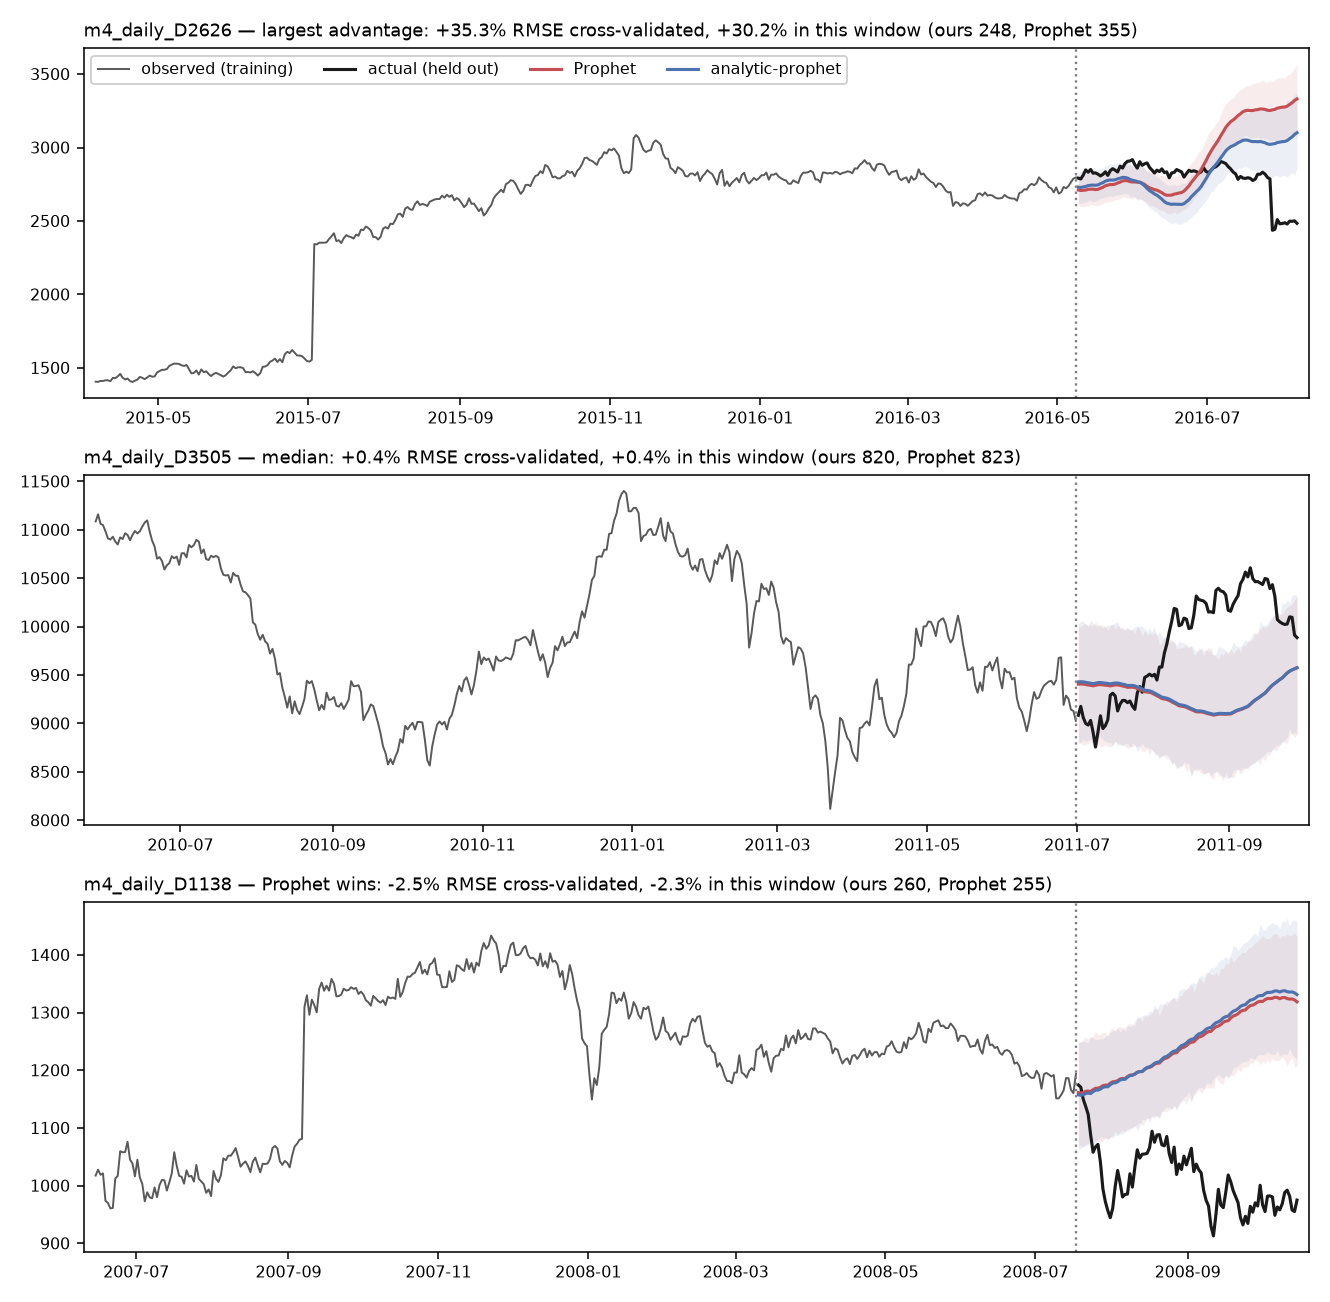
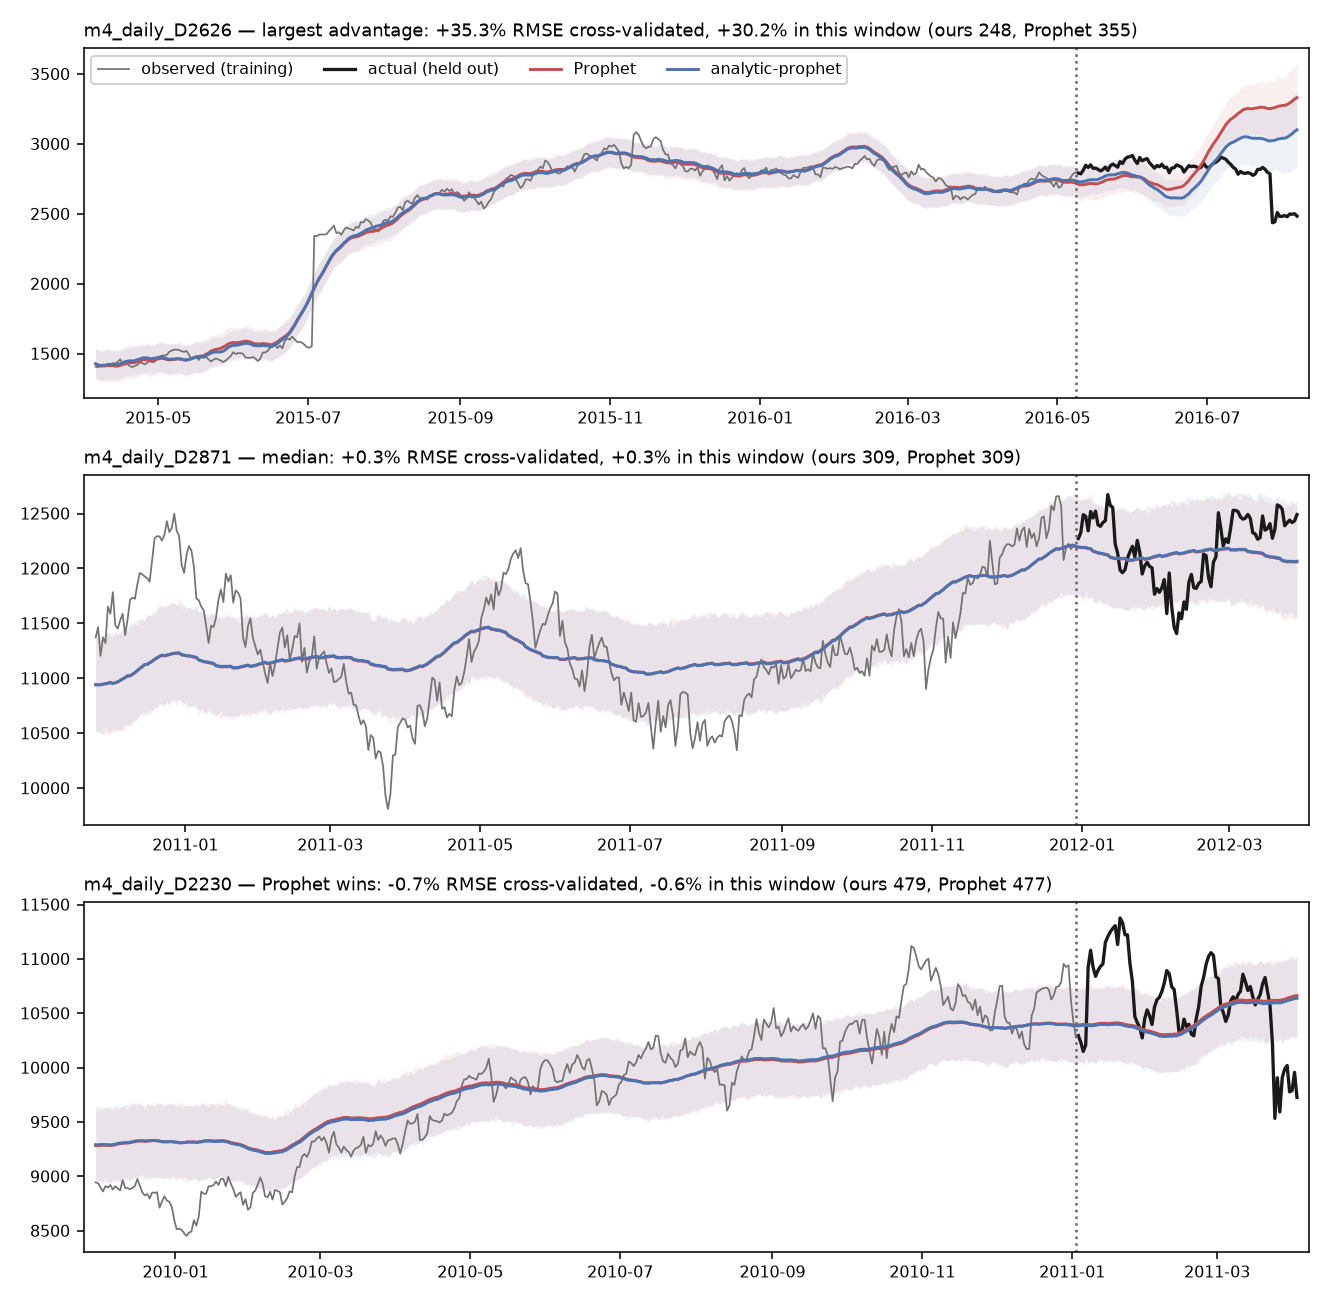
Fix the step at the cutoff, and draw series the model actually fits
Both from review of #112.

**The step at the cutoff was the model's residual, drawn as though it were a
plotting artefact.** Each forecast line started at the first point past the
cutoff, whose fitted value is not the last observation -- on one series the
gap was +401 on a series around 9000. Nothing was wrong with the numbers; the
figure just showed no line between the fit and the forecast, so the eye read
a jump.

Both implementations now predict across the whole drawn span, so each line is
continuous: to the left of the cutoff the model's fit to data it was shown,
to the right its forecast. That removes the step by showing what it was, and
it makes the panels say more than before -- the distance between a coloured
line and the grey one is the fit, which was previously invisible. The RMSEs
are still computed on the horizon alone; scoring a model on its own training
data would be a different and much kinder number.

**The second and third series were chosen without regard to whether the model
fits them at all.** The ranking was over all 36, so the median and
Prophet-wins panels landed on series where both implementations forecast
poorly -- which illustrates the difficulty of the series, not the difference
between two optimizers, and makes a showcase that showcases nothing.

The ranking is now taken over the 11 series where both implementations are
within 10% sMAPE held out, which is stated in the caption with the threshold.
The panels become:
[…]

diff --git a/evaluation/showcase.py b/evaluation/showcase.py
@@ -41,9 +41,17 @@ from tiers import tier2
 
 FIGURE = harness.RESULTS / "figures" / "showcase.png"
 
+# A Prophet-shaped model does not fit every M4 series, and a panel where both
+# implementations miss badly shows the difficulty of the series rather than
+# the difference between two optimizers. So the ranking is taken over the
+# series where the model works at all: both implementations within this sMAPE
+# held out. 0.10 keeps 11 of the 36 and is stated in the caption, because a
+# threshold nobody can see is a thumb on the scale.
+FITS_AT_ALL = 0.10
+
 # Panels, in the order they are drawn, each with the rule that picks it.
 SELECTIONS = (
-    ("largest advantage", "the series of the 36 where our cross-validated RMSE "
+    ("largest advantage", "of those, the series where our cross-validated RMSE "
                           "beats Prophet's by the most"),
     ("median", "the series at the median of that same ranking"),
     ("Prophet wins", "the series where Prophet beats us by the most"),
@@ -59,14 +67,24 @@ def _advantages(results=None):
     """
     path = Path(results or harness.RESULTS / "tier2_accuracy.csv")
     frame = pd.read_csv(path)
-    rmse = frame[frame["metric"] == "rmse"]
+
+    def paired(metric):
+        wanted = frame[frame["metric"] == metric]
+        return {series: dict(zip(group["implementation"], group["value"]))
+                for series, group in wanted.groupby("series")}
+
+    rmse, smape = paired("rmse"), paired("smape")
 
     rows = []
-    for series, group in rmse.groupby("series"):
-        by_implementation = dict(zip(group["implementation"], group["value"]))
-        ours = by_implementation.get("analytic_prophet")
-        theirs = by_implementation.get("prophet")
+    for series, values in rmse.items():
+        ours, theirs = values.get("analytic_prophet"), values.get("prophet")
+        fit = smape.get(series, {})
         if ours is None or theirs is None or not theirs:
+            continue
+        if not {"analytic_prophet", "prophet"} <= set(fit):
+            continue
+        # the filter: the worse of the two has to be a usable forecast
+        if max(fit["analytic_prophet"], fit["prophet"]) > FITS_AT_ALL:
             continue
         rows.append(((theirs - ours) / theirs, series, ours, theirs))
     rows.sort(reverse=True)
@@ -102,8 +120,26 @@ def _load(series):
     raise SystemExit(f"{series} is not in the M4 sample; is the corpus cached?")
 
 
-def _one_window(frame, cutoff, horizon, lib_path):
-    """Fit both implementations on the history up to `cutoff` and forecast."""
+def _one_window(frame, cutoff, horizon, lib_path, tail):
+    """Fit both implementations on the history up to `cutoff`, then predict
+    across the whole drawn span -- the tail of the training data as well as
+    the horizon past it.
+
+    **Predicting back over the training tail is what removes the step at the
+    cutoff.** Drawing only the forecast starts each line at the first future
+    point, whose fitted value is not the last observation: at one of the
+    series in the first version of this figure the gap was +401 on a series
+    around 9000, which reads as a glitch in the plot and is not one. It is the
+    model's residual at the end of its own training data.
+
+    Carrying the fitted curve through the cutoff shows it for what it is. Each
+    line is then continuous, the distance between a fitted line and the
+    observed one is the fit, and the vertical rule marks where the model stops
+    having been shown the answer.
+
+    The RMSEs are still computed on the horizon alone. Scoring a model on the
+    data it was fitted to would be a different and much kinder number.
+    """
     from prophet import Prophet
 
     from analytic_prophet import AnalyticProphet
@@ -114,10 +150,14 @@ def _one_window(frame, cutoff, horizon, lib_path):
     if len(history) < 2 or future.empty:
         return None
 
+    shown_history = history if tail is None else history.tail(tail)
+    drawn = pd.concat([shown_history[["ds"]], future[["ds"]]], ignore_index=True)
+    n_fitted = len(shown_history)
+
     ours = AnalyticProphet(**harness.PROPHET_KWARGS)
     ours.rng = np.random.default_rng(harness.SEED)
     ours.fit(history, lib_path=lib_path)
-    our_forecast = ours.predict(future[["ds"]])
+    our_curve = ours.predict(drawn)
 
     with warnings.catch_warnings():
         warnings.simplefilter("ignore")
@@ -125,22 +165,23 @@ def _one_window(frame, cutoff, horizon, lib_path):
         # figure would differ between runs without this. [fc] tier2.
         np.random.seed(harness.SEED % (2 ** 32))
         theirs = Prophet(**harness.PROPHET_KWARGS).fit(history)
-        their_forecast = theirs.predict(future[["ds"]])
+        their_curve = theirs.predict(drawn)
 
     truth = future["y"].to_numpy()
 
-    def rmse(predicted):
-        return float(np.sqrt(np.mean((truth - predicted) ** 2)))
+    def rmse(curve):
+        return float(np.sqrt(np.mean(
+            (truth - curve["yhat"].to_numpy()[n_fitted:]) ** 2)))
 
     return {
-        "history": history, "cutoff": cutoff, "future": future,
-        "ours": our_forecast, "theirs": their_forecast,
-        "our_rmse": rmse(our_forecast["yhat"].to_numpy()),
-        "their_rmse": rmse(their_forecast["yhat"].to_numpy()),
+        "history": history, "shown_history": shown_history,
+        "cutoff": cutoff, "future": future,
+        "ours": our_curve, "theirs": their_curve, "n_fitted": n_fitted,
+        "our_rmse": rmse(our_curve), "their_rmse": rmse(their_curve),
     }
 
 
-def panel_data(series, cross_validated_advantage, lib_path):
+def panel_data(series, cross_validated_advantage, lib_path, tail=None):
     """What one panel draws: history, the cutoff, the truth, both forecasts.
 
     **Which window.** A series is selected by its cross-validated RMSE, which
@@ -167,7 +208,7 @@ def panel_data(series, cross_validated_advantage, lib_path):
 
     cutoffs = generate_cutoffs(frame, horizon, pd.Timedelta(initial_text),
                                pd.Timedelta(period_text))
-    windows = [w for w in (_one_window(frame, cutoff, horizon, lib_path)
+    windows = [w for w in (_one_window(frame, cutoff, horizon, lib_path, tail)
                            for cutoff in cutoffs) if w is not None]
     if not windows:
         raise SystemExit(f"{series}: no usable cutoff")
@@ -199,24 +240,27 @@ def draw(panels, out_path=FIGURE, tail=None):
     axes = np.atleast_1d(axes)
 
     for axis, ((label, _rule, advantage, series, _o, _t), data) in zip(axes, panels):
-        history, future = data["history"], data["future"]
-        shown = history if tail is None else history.tail(tail)
+        shown, future = data["shown_history"], data["future"]
 
-        axis.plot(shown["ds"], shown["y"], color="0.35", linewidth=1.0,
+        axis.plot(shown["ds"], shown["y"], color="0.45", linewidth=0.9,
                   label="observed (training)")
-        axis.plot(future["ds"], future["y"], color="0.1", linewidth=1.6,
+        axis.plot(future["ds"], future["y"], color="0.1", linewidth=1.7,
                   label="actual (held out)")
 
-        for forecast, colour, name in (
+        # One continuous line per model across the whole drawn span: fitted
+        # to the left of the cutoff, forecast to the right. Drawing only the
+        # right-hand part leaves a step at the cutoff that looks like a
+        # plotting bug and is really the model's residual (#100 review).
+        for curve, colour, name in (
                 (data["theirs"], theirs_colour, "Prophet"),
                 (data["ours"], ours_colour, "analytic-prophet")):
-            axis.fill_between(future["ds"], forecast["yhat_lower"],
-                              forecast["yhat_upper"], color=colour, alpha=0.10,
+            axis.fill_between(curve["ds"], curve["yhat_lower"],
+                              curve["yhat_upper"], color=colour, alpha=0.09,
                               linewidth=0)
-            axis.plot(future["ds"], forecast["yhat"], color=colour,
-                      linewidth=1.6, label=name)
+            axis.plot(curve["ds"], curve["yhat"], color=colour,
+                      linewidth=1.5, label=name)
 
-        axis.axvline(data["cutoff"], color="0.5", linestyle=":", linewidth=1.2)
+        axis.axvline(data["cutoff"], color="0.4", linestyle=":", linewidth=1.3)
         axis.set_title(
             f"{series} — {label}: {advantage:+.1%} RMSE cross-validated, "
             f"{data['advantage']:+.1%} in this window "
@@ -255,7 +299,7 @@ def main(argv=None):
     for label, rule, advantage, series, ours, theirs in chosen:
         print(f"  {label}: {series} ({advantage:+.1%})")
         panels.append(((label, rule, advantage, series, ours, theirs),
-                       panel_data(series, advantage, lib_path)))
+                       panel_data(series, advantage, lib_path, tail=args.tail)))
 
     written = draw(panels, Path(args.out), tail=args.tail)
     print(f"wrote {written}")

diff --git a/tests/test_showcase_figure.py b/tests/test_showcase_figure.py
@@ -35,21 +35,49 @@ def readme():
     return README.read_text()
 
 
-@pytest.fixture(scope="module")
-def advantages():
-    """Relative RMSE advantage per series, from the committed Tier 2 results."""
-    rows = list(csv.DictReader(open(TIER2)))
+def _paired(rows, metric):
     by_series = {}
     for row in rows:
-        if row["metric"] == "rmse":
+        if row["metric"] == metric:
             by_series.setdefault(row["series"], {})[row["implementation"]] = \
                 float(row["value"])
+    return by_series
+
+
+@pytest.fixture(scope="module")
+def advantages():
+    """Relative RMSE advantage per series, from the committed Tier 2 results.
+
+    Every scored series, unfiltered -- this is what the caption's "across all
+    36 series" is about.
+    """
+    rows = list(csv.DictReader(open(TIER2)))
     out = {}
-    for series, values in by_series.items():
+    for series, values in _paired(rows, "rmse").items():
         ours, theirs = values.get("analytic_prophet"), values.get("prophet")
         if ours is not None and theirs:
             out[series] = (theirs - ours) / theirs
     return out
+
+
+@pytest.fixture(scope="module")
+def fitted_advantages(advantages):
+    """The same, restricted to the series a Prophet-shaped model fits at all.
+
+    The panels are selected from these, so the test re-derives the filter
+    rather than trusting the script to have applied it.
+    """
+    from showcase import FITS_AT_ALL
+
+    rows = list(csv.DictReader(open(TIER2)))
+    smape = _paired(rows, "smape")
+    keep = {}
+    for series, advantage in advantages.items():
+        fit = smape.get(series, {})
+        if {"analytic_prophet", "prophet"} <= set(fit) and \
+                max(fit.values()) <= FITS_AT_ALL:
+            keep[series] = advantage
+    return keep
 
 
 def test_the_figure_exists_and_the_readme_shows_it(readme):
@@ -73,6 +101,8 @@ def test_the_caption_states_the_selection_rule(readme):
     for rule in ("beats Prophet's by the most", "median", "Prophet beats us by the most"):
         assert rule in caption, f"the caption does not name the {rule!r} panel"
     assert "held out" in caption or "neither model saw" in caption
+    # the filter is part of the rule, so it has to be stated too
+    assert "sMAPE" in caption, "the caption does not say the ranking was filtered"
 
 
 def test_the_caption_reports_the_median_advantage_correctly(readme, advantages):
@@ -94,8 +124,9 @@ def test_the_caption_reports_coverage_as_the_report_does(readme):
     """The intervals are drawn, so the caption carries the under-coverage --
     and carries the canonical report's numbers rather than an older run's."""
     report = (REPO / "evaluation" / "results" / "report.md").read_text()
+    # one line: markdown wraps, and this phrase straddles a newline
     quoted = re.findall(r"coverage \*\*([\d.]+)\*\* for ours and \*\*([\d.]+)\*\*",
-                        readme)
+                        " ".join(readme.split()))
     assert quoted, "the caption no longer quotes coverage, though the figure draws bands"
 
     for ours, theirs in quoted:
@@ -104,21 +135,43 @@ def test_the_caption_reports_coverage_as_the_report_does(readme):
             f"generated report says")
 
 
-def test_the_three_panels_are_what_the_rule_selects(advantages):
+def test_the_three_panels_are_what_the_rule_selects(fitted_advantages):
     """The script picks by rule from the committed results; this is that rule,
     written again, so a change to either has to be deliberate."""
     from showcase import select
 
     chosen = [series for _label, _rule, _advantage, series, _o, _t in select()]
-    ranked = sorted(advantages, key=advantages.get, reverse=True)
+    ranked = sorted(fitted_advantages, key=fitted_advantages.get, reverse=True)
 
     assert chosen[0] == ranked[0], "panel 1 is not the largest advantage"
     assert chosen[1] == ranked[len(ranked) // 2], "panel 2 is not the median"
     assert chosen[2] == ranked[-1], "panel 3 is not the one Prophet wins by most"
 
 
-def test_the_selection_spans_a_real_range(advantages):
+def test_the_panels_are_series_the_model_actually_fits(fitted_advantages):
+    """The point of the filter. A panel where both implementations miss badly
+    shows the difficulty of the series, not the difference between two
+    optimizers -- which is what the first version of this figure did."""
+    from showcase import FITS_AT_ALL, select
+
+    rows = list(csv.DictReader(open(TIER2)))
+    smape = _paired(rows, "smape")
+    for _label, _rule, _advantage, series, _o, _t in select():
+        for implementation, value in smape[series].items():
+            assert value <= FITS_AT_ALL, (
+                f"{series} is drawn but {implementation} scores {value:.1%} "
+                f"sMAPE on it, above the {FITS_AT_ALL:.0%} the caption claims")
+
+
+def test_the_caption_states_the_size_of_the_filtered_set(readme, fitted_advantages):
+    quoted = re.search(r"\*\*(\d+) where a Prophet-shaped model fits", readme)
+    assert quoted, "the caption no longer says how many series the ranking covers"
+    assert int(quoted.group(1)) == len(fitted_advantages)
+
+
+def test_the_selection_spans_a_real_range(fitted_advantages):
     """If the best and worst series ever converge, three panels stop saying
     anything and the figure should be rethought rather than redrawn."""
-    assert max(advantages.values()) > 0.05, "no series shows a visible advantage"
-    assert min(advantages.values()) < 0, "no series where Prophet wins; panel 3 is a lie"
+    assert max(fitted_advantages.values()) > 0.05, "no series shows a visible advantage"
+    assert min(fitted_advantages.values()) < 0, (
+        "no series where Prophet wins; panel 3 is a lie")

diff --git a/README.md b/README.md
@@ -16,28 +16,31 @@ is no MCMC and no plotting, so this is not yet a drop-in replacement. See
 
 ![three held-out forecasts: the largest advantage, the median, and one Prophet wins](evaluation/results/figures/showcase.png)
 
-**What this shows, and what it does not.** Three M4 series, forecast past a cutoff neither
-model saw, with the actual values drawn over the horizon. They are **chosen by rule, not
-by eye**: of the 36 series in [Tier 2](evaluation/results/report.md#tier-2--is-it-more-accurate-held-out),
-these are the one where our cross-validated RMSE beats Prophet's by the most, the one at
-the median of that ranking, and the one where Prophet beats us by the most. For each, the
-window drawn is the cutoff whose advantage is closest to that series' cross-validated
-figure, so the picture and the percentage describe the same thing.
+**What this shows, and what it does not.** Three M4 series, forecast past a cutoff
+neither model saw. Each coloured line is continuous through the cutoff: to its left the
+model's fit to data it was shown, to its right its forecast. The actual values over the
+horizon are drawn in black, and the bands are the nominal 80% intervals.
+
+They are **chosen by rule, not by eye.** Of Tier 2's 36 series, the ranking is taken over
+the **11 where a Prophet-shaped model fits at all** — both implementations within 10%
+sMAPE held out — because a panel where both miss badly shows the difficulty of the series
+rather than the difference between two optimizers. Within those: the series where our
+cross-validated RMSE beats Prophet's by the most, the one at the median of that ranking,
+and the one where Prophet beats us by the most.
 
 **The top panel is the mechanism; the bottom two are the typical case.** Prophet's
 optimizer stops short on the non-differentiable objective, and that costs most where the
 trend is doing the work — a regime change, as in the top panel, where the L1 kink is
-load-bearing. Elsewhere both implementations fit almost the same model and the curves sit
-on top of each other. Across all 36 series the median RMSE advantage is **0.45%**, and
+load-bearing. Elsewhere both implementations fit nearly the same model and the two lines
+sit on top of each other. Across all 36 series the median RMSE advantage is **0.45%**, and
 past two years of history predictions differ by **0.17–0.59%** of the series scale. A
 reader who runs this on their own data should expect the bottom two panels, not the top
 one.
 
-The shaded bands are the nominal 80% intervals. **Neither implementation's are well
-calibrated**: on this corpus they contain about a third of the held-out points they claim
-four fifths of — mean coverage **0.356** for ours and **0.341** for Prophet's. That is a
-property of the model on long horizons, it is shared, and it is larger than anything
-separating the two.
+**Neither implementation's intervals are well calibrated.** On this corpus they contain
+about a third of the held-out points they claim four fifths of — mean coverage **0.356**
+for ours and **0.341** for Prophet's. That is a property of the model on long horizons, it
+is shared, and it is larger than anything separating the two.
 
 Regenerate it with `python evaluation/showcase.py`; the output is byte-identical because
 both sides are seeded.
